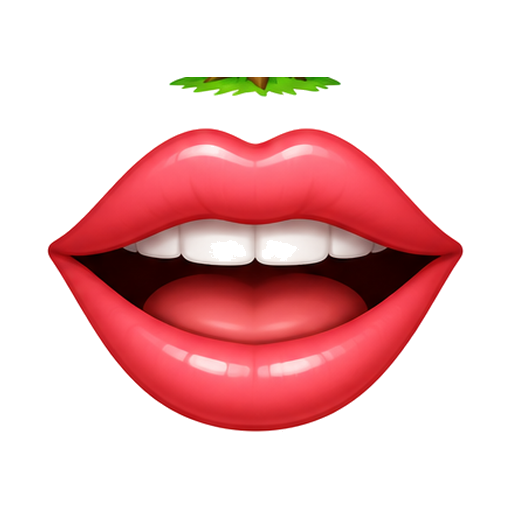
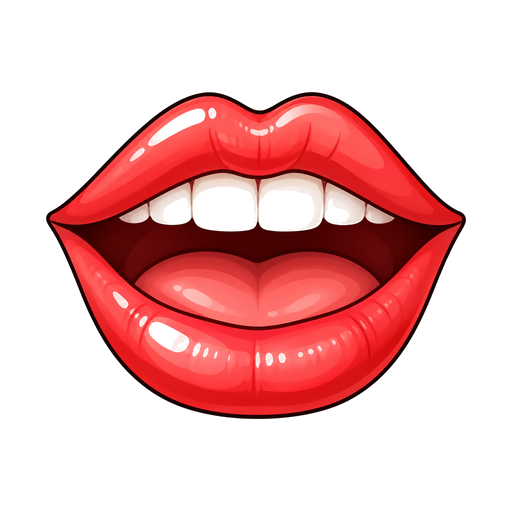
v186: Process and integrate 40 native drawings from EMOJIS12

diff --git a/index.html b/index.html
@@ -9,7 +9,7 @@
   <title>CRIN Aventuras de Lectoescritura</title>
   
   <script>
-    const CURRENT_APP_VERSION = 'v185';
+    const CURRENT_APP_VERSION = 'v186';
 
     function forceAppUpdate() {
       if ('serviceWorker' in navigator) {
@@ -26,7 +26,7 @@
         localStorage.removeItem('crin_custom_emoji_map');
       } catch(e) {}
       const u = new URL(window.location.href);
-      u.searchParams.set('v', '185');
+      u.searchParams.set('v', '186');
       u.searchParams.set('_b', Date.now());
       window.location.replace(u.toString());
     }
@@ -48,7 +48,7 @@
       const urlParams = new URLSearchParams(window.location.search);
       const urlVer = urlParams.get('v');
       const hasBust = urlParams.has('_b');
-      if ((!urlVer || (urlVer !== '185' && urlVer !== 'v185')) && !hasBust) {
+      if ((!urlVer || (urlVer !== '186' && urlVer !== 'v186')) && !hasBust) {
         forceAppUpdate();
       } else if (hasBust || urlVer) {
         try {
@@ -1170,7 +1170,7 @@
           <!-- SELECTOR DE TAREA SEMANAL -->
           <div class="panel-card" style="margin-bottom: 12px; background: linear-gradient(135deg, #74B9FF 0%, #0984E3 100%); color: white; padding: 12px 14px; border-radius: 16px; box-shadow: 0 4px 12px rgba(9, 132, 227, 0.25);">
             <div style="font-weight: bold; font-size: 13px; margin-bottom: 6px; display: flex; align-items: center; justify-content: space-between;">
-              <span>🎯 Seleccionar Tarea Activa: <span style="font-size: 9px; background: #2ECC71; color: white; border-radius: 6px; padding: 1px 5px; font-weight: bold; vertical-align: middle;">v185</span> <button onclick="forceAppUpdate()" style="background: rgba(255,255,255,0.3); border: 1px solid white; color: white; border-radius: 6px; padding: 1px 6px; font-size: 9px; font-weight: bold; cursor: pointer; margin-left: 4px;">🔄 Recargar v185</button></span>
+              <span>🎯 Seleccionar Tarea Activa: <span style="font-size: 9px; background: #2ECC71; color: white; border-radius: 6px; padding: 1px 5px; font-weight: bold; vertical-align: middle;">v186</span> <button onclick="forceAppUpdate()" style="background: rgba(255,255,255,0.3); border: 1px solid white; color: white; border-radius: 6px; padding: 1px 6px; font-size: 9px; font-weight: bold; cursor: pointer; margin-left: 4px;">🔄 Recargar v186</button></span>
               <span id="active-task-badge" style="background: rgba(255,255,255,0.25); border-radius: 10px; padding: 2px 8px; font-size: 10px;">4 Misiones</span>
             </div>
             <select id="active-task-select" onchange="changeActiveTaskPack(this.value)" style="width: 100%; padding: 8px 12px; border-radius: 12px; border: none; font-weight: bold; font-size: 13px; color: #2D3436; background: white; cursor: pointer; box-shadow: 0 4px 10px rgba(0,0,0,0.15);">
@@ -1457,7 +1457,7 @@
       <div id="screen-therapist" class="screen">
         <div style="display: flex; justify-content: space-between; align-items: center; margin-bottom: 12px;">
           <h2 style="font-size: 18px; margin: 0;">⚙ Panel Terapeuta / Padres</h2>
-          <span style="font-size: 10px; background: #2ECC71; color: white; border-radius: 8px; padding: 2px 6px; font-weight: bold;">v185</span>
+          <span style="font-size: 10px; background: #2ECC71; color: white; border-radius: 8px; padding: 2px 6px; font-weight: bold;">v186</span>
         </div>
         
         <!-- 📌 PASO 1: GESTOR Y EDITOR DEL DICCIONARIO DE DIBUJOS Y PALABRAS -->
@@ -3195,7 +3195,7 @@
       if (!url) return '';
       const str = String(url).trim();
       if (str.startsWith('assets/') || str.includes('/assets/')) {
-        const v = (typeof CURRENT_APP_VERSION !== 'undefined') ? CURRENT_APP_VERSION : '185';
+        const v = (typeof CURRENT_APP_VERSION !== 'undefined') ? CURRENT_APP_VERSION : '186';
         if (str.includes('?')) return str + '&v=' + v;
         return str + '?v=' + v;
       }
@@ -3262,18 +3262,18 @@
     const emojiMap = {
       'LUNA': 'assets/luna.png', 'NOCHE': 'assets/noche.png', 'SOL': 'assets/sol.png', 'ESTRELLA': 'assets/estrella.png', 'BLANCO': 'assets/blanco.png', 'NEGRO': 'assets/negro.png',
       'LECHE': 'assets/leche.png', 'AGUA': 'assets/agua.png', 'SOPA': '🍲', 'CENA': 'assets/cena.png', 'PLATO': 'assets/plato.png', 'PAN': 'assets/pan.png',
-      'MANZANA': 'assets/manzana.png', 'PERA': 'assets/pera.png', 'BANANA': 'assets/banana.png', 'BANANO': 'assets/banana.png', 'PLATANO': 'assets/banana.png', 'ANANÁ': 'assets/anana.png', 'ANANA': 'assets/anana.png', 'SANDÍA': 'assets/sandia.png', 'SANDIA': 'assets/sandia.png', 'LIMÓN': 'assets/limon.png', 'LIMON': 'assets/limon.png', 'LIMA': '🍏', 'POMELO': '🍊', 'PIÑA': 'assets/pina.png', 'PINA': 'assets/pina.png', 'COCO': 'assets/coco.png',
-      'CARAMELO': 'assets/caramelo.png', 'CONFITE': '🍭', 'CAFÉ': 'assets/cafe.png', 'CAFE': 'assets/cafe.png', 'TAZA': '🍵', 'MATE': 'assets/mate.png', 'FIDEOS': 'assets/fideo.png', 'FIDEO': 'assets/fideo.png',
+      'MANZANA': 'assets/manzana.png', 'PERA': 'assets/pera.png', 'BANANA': 'assets/banana.png', 'BANANO': 'assets/banana.png', 'PLATANO': 'assets/banana.png', 'ANANÁ': 'assets/anana.png', 'ANANA': 'assets/anana.png', 'SANDÍA': 'assets/sandia.png', 'SANDIA': 'assets/sandia.png', 'LIMÓN': 'assets/limon.png', 'LIMON': 'assets/limon.png', 'LIMA': '🍏', 'POMELO': 'assets/pomelo.png', 'PIÑA': 'assets/pina.png', 'PINA': 'assets/pina.png', 'COCO': 'assets/coco.png',
+      'CARAMELO': 'assets/caramelo.png', 'CONFITE': '🍭', 'CAFÉ': 'assets/cafe.png', 'CAFE': 'assets/cafe.png', 'TAZA': 'assets/taza.png', 'MATE': 'assets/mate.png', 'FIDEOS': 'assets/fideo.png', 'FIDEO': 'assets/fideo.png',
       'GATO': 'assets/gato.png', 'FELINO': '🐅', 'PERRO': 'assets/perro.png', 'OSO': 'assets/oso.png', 'PUMA': '🐆', 'LEÓN': 'assets/leon.png', 'LEON': 'assets/leon.png', 'RATÓN': 'assets/raton.png', 'RATON': 'assets/raton.png', 'MONO': 'assets/mono.png', 'MONITO': 'assets/mono.png', 'JIRAFA': 'assets/jirafa.png',
-      'PATO': 'assets/pato.png', 'RANA': '🐸', 'SAPO': 'assets/sapo.png', 'SPO': 'assets/sapo.png', 'PÁJARO': 'assets/pajaro.png', 'PAJARO': 'assets/pajaro.png', 'PEZ': 'assets/pez.png', 'FOCA': 'assets/foca.png', 'SERPIENTE': '🐍', 'SIRENA': '🧜♀', 'MARIPOSA': 'assets/mariposa.png', 'TOPO': 'assets/topo.png', 'COLA': 'assets/cola.png',
-      'HOJA': 'assets/hoja.png', 'ÁRBOL': 'assets/arbol.png', 'ARBOL': 'assets/arbol.png', 'SEMILLA': 'assets/semilla.png', 'PINO': 'assets/pino.png', 'FLOR': 'assets/flor.png', 'ROSA': 'assets/rosa.png', 'LOMA': '⛰', 'MONTAÑA': 'assets/montana.png', 'MONTANA': 'assets/montana.png', 'FUEGO': 'assets/fuego.png', 'ESTUFA': 'assets/estufa.png', 'POZO': 'assets/pozo.png', 'TÚNEL': 'assets/tunel.png', 'TUNEL': 'assets/tunel.png', 'CERA': '🍯', 'VELA': '🕯', 'MELÓN': 'assets/melon.png', 'MELON': 'assets/melon.png', 'PIMIENTO': 'assets/pimiento.png', 'TOMATE': 'assets/tomate.png', 'ZANAHORIA': 'assets/zanahoria.png',
-      'LATA': 'assets/lata.png', 'PILA': 'assets/pila.png', 'LLAVE': 'assets/llave.png', 'LÁPIZ': 'assets/lapiz.png', 'LAPIZ': 'assets/lapiz.png', 'LIBRO': 'assets/libro.png', 'CUENTO': 'assets/cuento.png', 'MAPA': 'assets/mapa.png', 'TIJERA': '✂', 'SOMBRERO': '🤠', 'SOMBRILLA': 'assets/sombrilla.png', 'PIPA': 'assets/pipa.png', 'PITO': 'assets/silbato.png', 'SILBATO': 'assets/silbato.png', 'JAULA': 'assets/jaula.png',
-      'DADO': 'assets/dado.png', 'FICHA': 'assets/ficha.png', 'TAPA': '📦', 'CAJA': 'assets/caja.png', 'CAJÓN': 'assets/cajon.png', 'CAJON': 'assets/cajon.png', 'TELA': 'assets/tela.png', 'LANA': 'assets/lana.png', 'TÍTERE': 'assets/titere.png', 'TITERE': 'assets/titere.png', 'CHALECO': 'assets/chaleco.png', 'FANTASMA': 'assets/fantasma.png', 'FARO': 'assets/faro.png', 'GAFAS': 'assets/anteojos.png', 'GAFA': 'assets/anteojos.png', 'ANTEOJOS': 'assets/anteojos.png', 'RIFA': '🎟',
-      'CASA': 'assets/casa.png', 'TECHO': 'assets/techo.png', 'PUERTA': '🚪', 'PUENTE': '🌉', 'CAMA': 'assets/cama.png', 'CUNA': 'assets/cuna.png', 'SILLA': '🪑', 'MESA': 'assets/mesa.png',
-      'SALA': '📺', 'SOFÁ': '🛋', 'SOFA': '🛋', 'COPA': 'assets/copa.png',
+      'PATO': 'assets/pato.png', 'RANA': '🐸', 'SAPO': 'assets/sapo.png', 'SPO': 'assets/sapo.png', 'PÁJARO': 'assets/pajaro.png', 'PAJARO': 'assets/pajaro.png', 'PEZ': 'assets/pez.png', 'FOCA': 'assets/foca.png', 'SERPIENTE': 'assets/serpiente.png', 'SIRENA': '🧜♀', 'MARIPOSA': 'assets/mariposa.png', 'TOPO': 'assets/topo.png', 'COLA': 'assets/cola.png',
+      'HOJA': 'assets/hoja.png', 'ÁRBOL': 'assets/arbol.png', 'ARBOL': 'assets/arbol.png', 'SEMILLA': 'assets/semilla.png', 'PINO': 'assets/pino.png', 'FLOR': 'assets/flor.png', 'ROSA': 'assets/rosa.png', 'LOMA': 'assets/loma.png', 'MONTAÑA': 'assets/montana.png', 'MONTANA': 'assets/montana.png', 'FUEGO': 'assets/fuego.png', 'ESTUFA': 'assets/estufa.png', 'POZO': 'assets/pozo.png', 'TÚNEL': 'assets/tunel.png', 'TUNEL': 'assets/tunel.png', 'CERA': '🍯', 'VELA': '🕯', 'MELÓN': 'assets/melon.png', 'MELON': 'assets/melon.png', 'PIMIENTO': 'assets/pimiento.png', 'TOMATE': 'assets/tomate.png', 'ZANAHORIA': 'assets/zanahoria.png',
+      'LATA': 'assets/lata.png', 'PILA': 'assets/pila.png', 'LLAVE': 'assets/llave.png', 'LÁPIZ': 'assets/lapiz.png', 'LAPIZ': 'assets/lapiz.png', 'LIBRO': 'assets/libro.png', 'CUENTO': 'assets/cuento.png', 'MAPA': 'assets/mapa.png', 'TIJERA': '✂', 'SOMBRERO': 'assets/sombrero.png', 'SOMBRILLA': 'assets/sombrilla.png', 'PIPA': 'assets/pipa.png', 'PITO': 'assets/silbato.png', 'SILBATO': 'assets/silbato.png', 'JAULA': 'assets/jaula.png',
+      'DADO': 'assets/dado.png', 'FICHA': 'assets/ficha.png', 'TAPA': '📦', 'CAJA': 'assets/caja.png', 'CAJÓN': 'assets/cajon.png', 'CAJON': 'assets/cajon.png', 'TELA': 'assets/tela.png', 'LANA': 'assets/lana.png', 'TÍTERE': 'assets/titere.png', 'TITERE': 'assets/titere.png', 'CHALECO': 'assets/chaleco.png', 'FANTASMA': 'assets/fantasma.png', 'FARO': 'assets/faro.png', 'GAFAS': 'assets/anteojos.png', 'GAFA': 'assets/anteojos.png', 'ANTEOJOS': 'assets/anteojos.png', 'RIFA': 'assets/rifa.png',
+      'CASA': 'assets/casa.png', 'TECHO': 'assets/techo.png', 'PUERTA': '🚪', 'PUENTE': 'assets/puente.png', 'CAMA': 'assets/cama.png', 'CUNA': 'assets/cuna.png', 'SILLA': '🪑', 'MESA': 'assets/mesa.png',
+      'SALA': '📺', 'SOFÁ': 'assets/sofa.png', 'SOFA': 'assets/sofa.png', 'COPA': 'assets/copa.png',
       'AUTO': 'assets/auto.png', 'COCHE': 'assets/coche_bebe.png', 'COCHE_BEBE': 'assets/coche_bebe.png', 'BICI': 'assets/bicicleta.png', 'BICICLETA': 'assets/bicicleta.png', 'MOTO': 'assets/moto.png', 'TREN': 'assets/tren.png',
       'PELOTA': 'assets/pelota.png', 'BOLA': '🔮', 'ZAPATO': 'assets/zapato.png', 'ZAPATILLA': 'assets/zapatilla.png', 'BOTA': 'assets/bota.png', 'PLUMA': 'assets/pluma.png', 'PALA': 'assets/pala.png', 'MANO': 'assets/mano.png', 'BOCA': 'assets/boca.png', 'DEDO': 'assets/dedo.png', 'PIE': 'assets/pie.png', 'PATA': '🐾', 'CARA': '😃', 'CORAZÓN': 'assets/corazon.png', 'CORAZON': 'assets/corazon.png', 'MIRADA': '👀', 'MÚSICA': 'assets/musica.png', 'MUSICA': 'assets/musica.png', 'COMA': '✍',
-      'MAMÁ': '👩', 'MAMA': '👩', 'MADRE': '👩', 'PAPÁ': '👨', 'PAPA': '👨', 'PADRE': '👨', 'NIÑO': '👦', 'NINO': '👦', 'NIÑA': '👧', 'NINA': '👧', 'ABUELO': 'assets/abuelo.png', 'ABUELA': 'assets/abuela.png', 'TÍO': '🧔', 'TIO': '🧔', 'TÍA': '👩🦱', 'TIA': '👩🦱', 'SEÑOR': '👨💼', 'SENOR': '👨💼', 'SEÑORA': '👩🦳', 'SENORA': '👩🦳', 'VERDE': 'assets/verde.png', 'AMARILLO': 'assets/amarillo.png', 'ROJO': 'assets/rojo.png', 'GLOBO': 'assets/globo.png', 'VIOLETA': 'assets/violeta.png', 'MORADO': 'assets/violeta.png', 'AZUL': 'assets/azul.png', 'ROSA_COLOR': '🩷', 'GRIS': '🩶', 'DORADO': 'assets/dorado.png', 'LENTA': '🐢', 'LINDA': '✨', 'POMELO': '🍊', 'FUENTE': 'assets/fuente.png', 'HELADO': 'assets/helado.png', 'TELÉFONO': 'assets/telefono.png', 'TELEFONO': 'assets/telefono.png', 'CINE': 'assets/cine.png', 'FOTO': 'assets/foto.png', 'COPITA': '🍸'
+      'MAMÁ': '👩', 'MAMA': '👩', 'MADRE': '👩', 'PAPÁ': '👨', 'PAPA': '👨', 'PADRE': '👨', 'NIÑO': '👦', 'NINO': '👦', 'NIÑA': '👧', 'NINA': '👧', 'ABUELO': 'assets/abuelo.png', 'ABUELA': 'assets/abuela.png', 'TÍO': '🧔', 'TIO': '🧔', 'TÍA': '👩🦱', 'TIA': '👩🦱', 'SEÑOR': '👨💼', 'SENOR': '👨💼', 'SEÑORA': '👩🦳', 'SENORA': '👩🦳', 'VERDE': 'assets/verde.png', 'AMARILLO': 'assets/amarillo.png', 'ROJO': 'assets/rojo.png', 'GLOBO': 'assets/globo.png', 'VIOLETA': 'assets/violeta.png', 'MORADO': 'assets/violeta.png', 'AZUL': 'assets/azul.png', 'ROSA_COLOR': '🩷', 'GRIS': '🩶', 'DORADO': 'assets/dorado.png', 'LENTA': '🐢', 'LINDA': 'assets/linda.png', 'POMELO': 'assets/pomelo.png', 'FUENTE': 'assets/fuente.png', 'HELADO': 'assets/helado.png', 'TELÉFONO': 'assets/telefono.png', 'TELEFONO': 'assets/telefono.png', 'CINE': 'assets/cine.png', 'FOTO': 'assets/foto.png', 'COPITA': 'assets/copita.png', 'BLUEY': 'assets/bluey.png', 'BOSQUE': 'assets/bosque.png', 'BUHO': 'assets/buho.png', 'BÚHO': 'assets/buho.png', 'CAJITA': 'assets/cajita.png', 'CAMINO': 'assets/camino.png', 'CAPIVARA': 'assets/capivara.png', 'CAPIBARA': 'assets/capivara.png', 'COHETE': 'assets/cohete.png', 'COSECHA': 'assets/cosecha.png', 'CUCHARA': 'assets/cuchara.png', 'CUCHILLO': 'assets/cuchillo.png', 'ELEFANTE': 'assets/elefante.png', 'JEFE': 'assets/jefe.png', 'MENSAJERO': 'assets/mensajero.png', 'MINUTO': 'assets/minuto.png', 'SÁBANA': 'assets/sabana.png', 'SABANA': 'assets/sabana.png', 'TENEDOR': 'assets/tenedor.png', 'VESTIDO': 'assets/vestido.png'
     };
 
     function getEmojiForWord(word) {
@@ -3441,7 +3441,7 @@
       '☀ Naturaleza y Cielo': ['🌙', '🌌', '☀', '⭐', '☁', '⬛', '⬜', '🍃', '🌳', '🌲', '🌸', '🌹', '⛰', '🏔', '🔥', '🕳', '🚇', '🕯', '✨', '⛲'],
       '🎨 Colores y Formas': ['🔴', '🔵', '🟡', '🟢', '⬜', '⬛', '🩷', '🩶', '🌟', '💎', '❤', '👀', '🎵', '✍', '✋', '👄', '☝', '🦶', '🐾', '😃'],
       '👨 Personas': ['👩', '👨', '👦', '👧', '👴', '👵', '🧔', '👩🦱', '👨💼', '👩🦳', '🧒', '🍼'],
-      '🖼 Fotos e Ilustraciones': ['assets/globo.png', 'assets/violeta.png', 'assets/negro.png', 'assets/rojo.png', 'assets/zapato.png', 'assets/zapatilla.png', 'assets/montana.png', 'assets/sapo.png', 'assets/silbato.png', 'assets/mesa.png', 'assets/techo.png', 'assets/cola.png', 'assets/jirafa.png', 'assets/melon.png', 'assets/pimiento.png', 'assets/raton.png', 'assets/titere.png', 'assets/tomate.png', 'assets/zanahoria.png', 'assets/auto.png', 'assets/banana.png', 'assets/bicicleta.png', 'assets/bota.png', 'assets/cafe.png', 'assets/sandia.png', 'assets/caramelo.png', 'assets/chaleco.png', 'assets/estrella.png', 'assets/helado.png', 'assets/lana.png', 'assets/lapiz.png', 'assets/lata.png', 'assets/leche.png', 'assets/leon.png', 'assets/libro.png', 'assets/limon.png', 'assets/llave.png', 'assets/luna.png', 'assets/pelota.png', 'assets/sol.png', 'assets/telefono.png', 'assets/abuela.png', 'assets/abuelo.png', 'assets/agua.png', 'assets/amarillo.png', 'assets/anteojos.png', 'assets/arbol.png', 'assets/azul.png', 'assets/blanco.png', 'assets/boca.png', 'assets/cama.png', 'assets/casa.png', 'assets/cena.png', 'assets/cine.png', 'assets/coche_bebe.png', 'assets/coco.png', 'assets/copa.png', 'assets/corazon.png', 'assets/cuento.png', 'assets/cuna.png', 'assets/dado.png', 'assets/dedo.png', 'assets/dorado.png', 'assets/fantasma.png', 'assets/faro.png', 'assets/ficha.png', 'assets/fideo.png', 'assets/flor.png', 'assets/foca.png', 'assets/fuente.png', 'assets/foto.png', 'assets/fuego.png', 'assets/gato.png', 'assets/hoja.png', 'assets/jaula.png', 'assets/manzana.png', 'assets/mapa.png', 'assets/mano.png', 'assets/mariposa.png', 'assets/mate.png', 'assets/mono.png', 'assets/moto.png', 'assets/musica.png', 'assets/noche.png', 'assets/oso.png', 'assets/pajaro.png', 'assets/pala.png', 'assets/pan.png', MESA_SVG_ICON]
+      '🖼 Fotos e Ilustraciones': ['assets/buho.png', 'assets/cajita.png', 'assets/camino.png', 'assets/capivara.png', 'assets/cohete.png', 'assets/cosecha.png', 'assets/cuchara.png', 'assets/cuchillo.png', 'assets/elefante.png', 'assets/jefe.png', 'assets/linda.png', 'assets/loma.png', 'assets/mensajero.png', 'assets/minuto.png', 'assets/puente.png', 'assets/rifa.png', 'assets/sabana.png', 'assets/serpiente.png', 'assets/sofa.png', 'assets/sombrero.png', 'assets/taza.png', 'assets/tenedor.png', 'assets/vestido.png', 'assets/bluey.png', 'assets/globo.png', 'assets/violeta.png', 'assets/negro.png', 'assets/rojo.png', 'assets/zapato.png', 'assets/zapatilla.png', 'assets/montana.png', 'assets/sapo.png', 'assets/silbato.png', 'assets/mesa.png', 'assets/techo.png', 'assets/cola.png', 'assets/jirafa.png', 'assets/melon.png', 'assets/pimiento.png', 'assets/raton.png', 'assets/titere.png', 'assets/tomate.png', 'assets/zanahoria.png', 'assets/auto.png', 'assets/banana.png', 'assets/bicicleta.png', 'assets/bota.png', 'assets/cafe.png', 'assets/sandia.png', 'assets/caramelo.png', 'assets/chaleco.png', 'assets/estrella.png', 'assets/helado.png', 'assets/lana.png', 'assets/lapiz.png', 'assets/lata.png', 'assets/leche.png', 'assets/leon.png', 'assets/libro.png', 'assets/limon.png', 'assets/llave.png', 'assets/luna.png', 'assets/pelota.png', 'assets/sol.png', 'assets/telefono.png', 'assets/abuela.png', 'assets/abuelo.png', 'assets/agua.png', 'assets/amarillo.png', 'assets/anteojos.png', 'assets/arbol.png', 'assets/azul.png', 'assets/blanco.png', 'assets/boca.png', 'assets/cama.png', 'assets/casa.png', 'assets/cena.png', 'assets/cine.png', 'assets/coche_bebe.png', 'assets/coco.png', 'assets/copa.png', 'assets/corazon.png', 'assets/cuento.png', 'assets/cuna.png', 'assets/dado.png', 'assets/dedo.png', 'assets/dorado.png', 'assets/fantasma.png', 'assets/faro.png', 'assets/ficha.png', 'assets/fideo.png', 'assets/flor.png', 'assets/foca.png', 'assets/fuente.png', 'assets/foto.png', 'assets/fuego.png', 'assets/gato.png', 'assets/hoja.png', 'assets/jaula.png', 'assets/manzana.png', 'assets/mapa.png', 'assets/mano.png', 'assets/mariposa.png', 'assets/mate.png', 'assets/mono.png', 'assets/moto.png', 'assets/musica.png', 'assets/noche.png', 'assets/oso.png', 'assets/pajaro.png', 'assets/pala.png', 'assets/pan.png', MESA_SVG_ICON]
     };
 
     const SUGGESTED_EMOJIS_MAP = {
@@ -3986,6 +3986,32 @@
       'TÍTERE': 'El ___ de madera nos hizo reír en el teatro.',
       'TITERE': 'El ___ de madera nos hizo reír en el teatro.',
       'TAPA': 'Levantamos la ___ dorada del cofre antiguo.',
+      'ABUELA': 'La ___ nos prepara ricas galletitas.',
+      'ABUELO': 'El ___ nos lee un hermoso cuento.',
+      'ANTEOJOS': 'Me pongo los ___ para leer mejor.',
+      'BOSQUE': 'Paseamos felices por el ___ verde.',
+      'BUHO': 'El ___ observa silencioso en la noche.',
+      'BÚHO': 'El ___ observa silencioso en la noche.',
+      'CAJITA': 'Guardamos recuerdos en la ___ dorada.',
+      'CAMINO': 'Seguimos el ___ que lleva al castillo.',
+      'CAPIVARA': 'La simpática ___ nada en la laguna.',
+      'CAPIBARA': 'La simpática ___ nada en la laguna.',
+      'CHALECO': 'Me abriga mi lindo ___ de lana.',
+      'COHETE': 'El ___ despega hacia las estrellas.',
+      'COPITA': 'Servimos jugo en una ___ de cristal.',
+      'COSECHA': 'Celebramos la ___ de frutas frescas.',
+      'CUCHARA': 'Tomo la sopa con la ___ grande.',
+      'CUCHILLO': 'Cortamos el pan con el ___ de madera.',
+      'ELEFANTE': 'El grande ___ camina por la selva.',
+      'FANTASMA': 'El ___ amigable nos hace sonreír.',
+      'JEFE': 'El ___ guía al equipo en la gran aventura.',
+      'MENSAJERO': 'El ___ trae un sobre de carta especial.',
+      'MINUTO': 'Esperamos solo un ___ para empezar el juego.',
+      'SABANA': 'Puse una ___ suave en la camita.',
+      'SÁBANA': 'Puse una ___ suave en la camita.',
+      'TENEDOR': 'Comemos ricos fideos con el ___.',
+      'VESTIDO': 'Lleva puesto un hermoso ___ de fiesta.',
+      'BLUEY': '___ baila y celebra llena de alegría.',
       'TOTO': 'El perrito ___ corrió alegremente por el jardín.',
       'TITA': 'La tía ___ nos recibió con una gran sonrisa.',
       'TETE': 'El bebé guardó su ___ en la cunita.',
@@ -6391,7 +6417,46 @@
       { word: 'ROJO', emoji: 'assets/rojo.png' },
       { word: 'AMARILLO', emoji: 'assets/amarillo.png' },
       { word: 'AZUL', emoji: 'assets/azul.png' },
-      { word: 'BLANCO', emoji: 'assets/blanco.png' }
+      { word: 'BLANCO', emoji: 'assets/blanco.png' },
+      { word: 'ABUELA', emoji: 'assets/abuela.png' },
+      { word: 'ABUELO', emoji: 'assets/abuelo.png' },
+      { word: 'ANTEOJOS', emoji: 'assets/anteojos.png' },
+      { word: 'BOCA', emoji: 'assets/boca.png' },
+      { word: 'BOSQUE', emoji: 'assets/bosque.png' },
+      { word: 'BUHO', emoji: 'assets/buho.png' },
+      { word: 'CAJITA', emoji: 'assets/cajita.png' },
+      { word: 'CAMINO', emoji: 'assets/camino.png' },
+      { word: 'CAPIVARA', emoji: 'assets/capivara.png' },
+      { word: 'CHALECO', emoji: 'assets/chaleco.png' },
+      { word: 'COHETE', emoji: 'assets/cohete.png' },
+      { word: 'COPITA', emoji: 'assets/copita.png' },
+      { word: 'CORAZON', emoji: 'assets/corazon.png' },
+      { word: 'COSECHA', emoji: 'assets/cosecha.png' },
+      { word: 'CUCHARA', emoji: 'assets/cuchara.png' },
+      { word: 'CUCHILLO', emoji: 'assets/cuchillo.png' },
+      { word: 'DADO', emoji: 'assets/dado.png' },
+      { word: 'ELEFANTE', emoji: 'assets/elefante.png' },
+      { word: 'FANTASMA', emoji: 'assets/fantasma.png' },
+      { word: 'JEFE', emoji: 'assets/jefe.png' },
+      { word: 'LINDA', emoji: 'assets/linda.png' },
+      { word: 'LOMA', emoji: 'assets/loma.png' },
+      { word: 'MARIPOSA', emoji: 'assets/mariposa.png' },
+      { word: 'MATE', emoji: 'assets/mate.png' },
+      { word: 'MENSAJERO', emoji: 'assets/mensajero.png' },
+      { word: 'MINUTO', emoji: 'assets/minuto.png' },
+      { word: 'MONO', emoji: 'assets/mono.png' },
+      { word: 'MOTO', emoji: 'assets/moto.png' },
+      { word: 'POMELO', emoji: 'assets/pomelo.png' },
+      { word: 'PUENTE', emoji: 'assets/puente.png' },
+      { word: 'RIFA', emoji: 'assets/rifa.png' },
+      { word: 'SABANA', emoji: 'assets/sabana.png' },
+      { word: 'SERPIENTE', emoji: 'assets/serpiente.png' },
+      { word: 'SOFA', emoji: 'assets/sofa.png' },
+      { word: 'SOMBRERO', emoji: 'assets/sombrero.png' },
+      { word: 'TAZA', emoji: 'assets/taza.png' },
+      { word: 'TENEDOR', emoji: 'assets/tenedor.png' },
+      { word: 'VESTIDO', emoji: 'assets/vestido.png' },
+      { word: 'BLUEY', emoji: 'assets/bluey.png' }
     ];
 
     let customRallyDrawingsBank = [];
